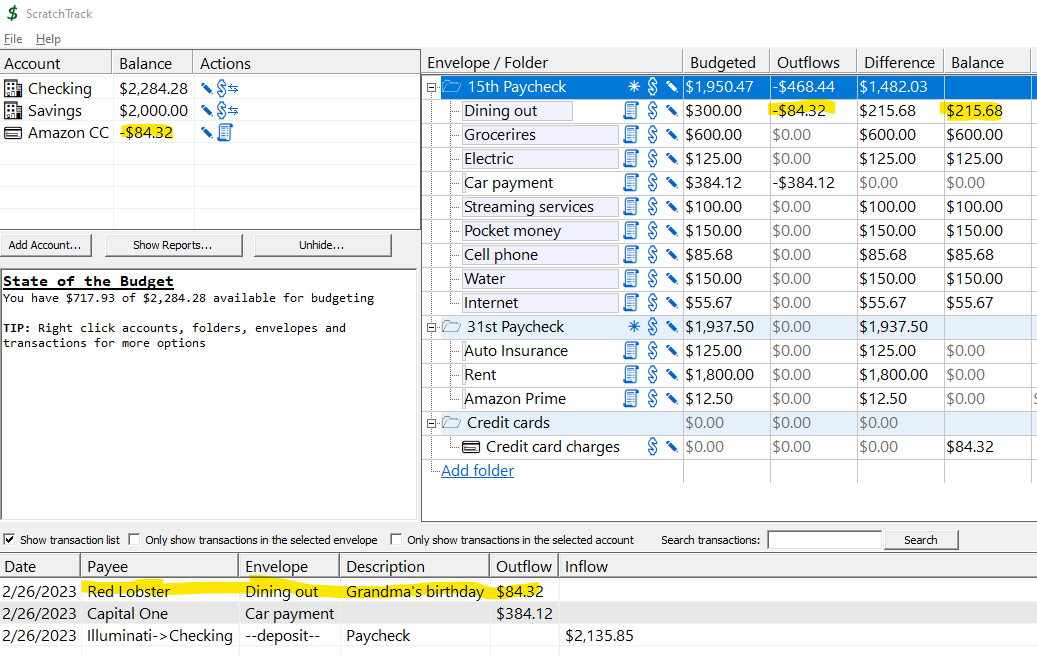
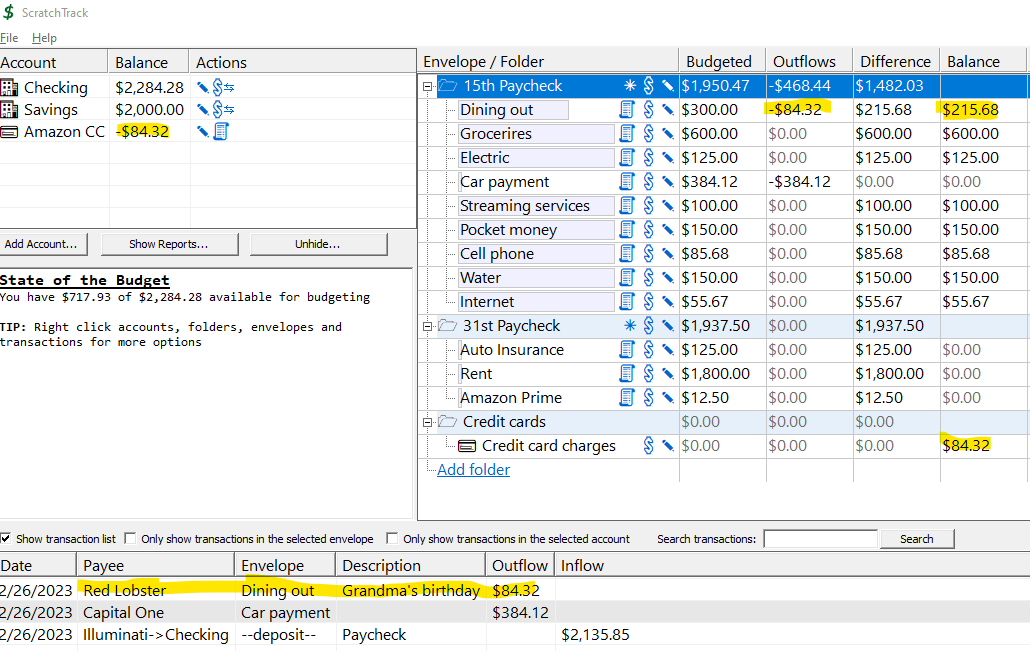
More explicit font handling

diff --git a/Website/index.html b/Website/index.html
@@ -1,8 +1,6 @@
 <!DOCTYPE html PUBLIC "-//W3C//DTD HTML 4.01//EN" "http://www.w3.org/TR/html4/strict.dtd">
 <html><head><title>ScratchTrack - Free budget and cashflow tracking for Windows</title>
 
-
-
   
 
   
@@ -14,8 +12,14 @@ body {
   </style>
   
   <meta http-equiv="Content-Type" content="text/html; charset=UTF-8">
-  <meta name="keywords" content="budget, cashflow, cash, flow, windows, application, free,simple,easy">
+
+  
+  <meta name="keywords" content="budget, cashflow, cash, flow, windows, application, free,simple,easy,freeware,envelope">
+
+  
   <meta name="description" content="ScratchTrack is a free budget and cashflow tracking application for Windows. The mission of ScratchTrack is to be the easiest budgeting appplication available.">
+
+  
   <meta name="robots" content="index, follow"></head><body>
 <table style="text-align: left; width: 1024px;" border="0" cellpadding="6" cellspacing="2">
 
@@ -80,7 +84,9 @@ budgeting but supports credit card workflows<br>
 after all the alternative products moved to a cloud-backed subscription
 model<br>
       <br>
-      <b style="font-weight: bold;">ScratchTrack</b><span style="font-weight: bold;"> is </span><b style="font-weight: bold;">free</b>! ! !<br>
+      <b style="font-weight: bold;">ScratchTrack</b><span style="font-weight: bold;"> is free&nbsp; </span>No Advertisements.
+No nag screens. No locked features. No data collection. Period.
+ScratchTrack is 100% <a href="donate.html">donation supported</a>.<br>
       <br>
       <span style="font-weight: bold;">Download ScratchTrack:</span><br>
       <br>
@@ -114,7 +120,7 @@ is a single file and there is no installer. Just copy it to your local
 machine and run it. If you’d like to add it to your start menu, right
 click it and select “Pin to Start”.</span><br>
       <span style="font-weight: bold;"><br>
-      ProTip:</span> Copy
+ProTip:</span> Copy
 ScratchTrack to your OneDrive / DropBox / GoogleDrive folder and work
 from any of your synced computers.<br>
       <p><b>Scratch Track features</b> </p>
@@ -123,33 +129,35 @@ from any of your synced computers.<br>
         <li>Continuous feedback as you work that alerts you to
 potential problems</li>
         <ul>
-          <li>No need to go to reports! Historical averages are displayed on the budget</li>
-          <li>Sparklines (mini bar charts) visually show how much is left in each category, and how close you are to reaching savings goals<br>
+          <li>No need to go to reports! Historical averages are
+displayed on the budget</li>
+          <li>Sparklines (mini bar charts) visually show how much is
+left in each category, and how close you are to reaching savings goals<br>
           </li>
         </ul>
         <li>ScratchTrack's
 native file format is XLSX<br>
         </li>
-
         <ul>
           <li>Open and view your budget in Excel, Google Sheets,
 LibreOffice Calc, Apache OpenOffice Calc</li>
         </ul>
         <li><span style="font-weight: bold;"></span>Import
 transactions into accounts in the Quicken Interchange Format (QIF)</li>
-        
         <li>Support for credit card workflows</li>
-        
         <li>Requires no special permissions and never sends any
 data over the internet</li>
         <li>Super small, fast, and portable</li>
-        <ul></ul>
-        <li>The author (me!) uses ScratchTrack daily and <span style="font-style: italic;">cares</span>. Found a bug? Need a feature? Visit me on the message board!<br>
+        <ul>
+        </ul>
+        <li>The author (me!) uses ScratchTrack daily and <span style="font-style: italic;">cares</span>. Found a bug? Need a feature?
+Visit me on the message board!<br>
         </li>
-
-      </ul><span style="font-weight: bold;"><img style="width: 1000px; height: 477px;" alt="ScratchTrack" src="assets/ScratchTrackFull.gif"><br>
+      </ul>
+      <span style="font-weight: bold;"><img style="width: 1000px; height: 477px;" alt="ScratchTrack" src="assets/ScratchTrackFull.gif"><br>
       <br>
-      <span style="font-weight: bold;">ScratchTrack's native file format is xlsx<br>
+      <span style="font-weight: bold;">ScratchTrack's native file
+format is xlsx<br>
       </span></span>ScratchTrack saves to a single xlsx file. If you
 want to view your data in a different way, just open it in Excel,
 Google Sheets, Open Office, etcetera. The main sheet is a budget
@@ -159,10 +167,12 @@ overview, and all the pertinent data can be found on secondary sheets.<span styl
 New in 0.5.23.57</span><br>
 Savings Goals!&nbsp; Envelopes can be assigned target balanaces to help
 plan for long term expenses such as down payments and vacations.<br>
-      Sparklines (mini bar charts) in the treeview showing remaining balanace / progress towards savings goals<br>
-      Average monthly spending information is displayed in the tree. Use this
+Sparklines (mini bar charts) in the treeview show remaining balanace
+/ progress towards savings goals<br>
+Average monthly spending information is displayed in the tree. Use this
 to track the accuracy of the budgeted amount set for envelopes.<br>
-      First stab at reporting. These reports won't win any beauty contests (yet). But it's a start!<br>
+First stab at reporting. These reports won't win any beauty contests
+(yet). But it's a start!<br>
       <br>
       <span style="font-weight: bold;">New in 0.5.23.54</span><br>
 Use consistent terminology throughout ScratchTrack. What was

diff --git a/ScratchTrack/ScratchTrack.cpp b/ScratchTrack/ScratchTrack.cpp
@@ -41,10 +41,6 @@
 
 #define MAX_LOADSTRING 100
 
-// Global settings
-static const float FONT_SCALE_FACTOR = 1.4f;
-static const float FONT_SCALE_FACTOR_LOWRES = 1.1f;
-
 // Global Variables:
 HINSTANCE g_hInst = nullptr;                                // current instance
 HWND g_hTopWindow = nullptr;
@@ -1832,12 +1828,22 @@ void setGuiFont(HWND hCtrl)
     bool lowRes = screenWidth < 1920;
 
     // Adjust font
-    float scaleFactor = lowRes ? FONT_SCALE_FACTOR_LOWRES : FONT_SCALE_FACTOR;
-
     HFONT hFont = (HFONT)SendMessage(hCtrl, WM_GETFONT, NULL, NULL);
     LOGFONT lf = { 0 };
     GetObject(hFont, sizeof(lf), &lf);
-    lf.lfHeight = (LONG)(lf.lfHeight * scaleFactor);
+
+    if ( lowRes && abs(lf.lfHeight) < 13 ) {
+        lf.lfHeight = -13;
+    }
+    if (!lowRes && abs(lf.lfHeight) < 16 ) {
+        lf.lfHeight = -16;
+    }
+    //static const float FONT_SCALE_FACTOR = 1.4f;
+    //static const float FONT_SCALE_FACTOR_LOWRES = 1.1f;
+
+    //float scaleFactor = lowRes ? FONT_SCALE_FACTOR_LOWRES : FONT_SCALE_FACTOR;
+
+    //lf.lfHeight = (LONG)(lf.lfHeight * scaleFactor);
     HFONT hNewFont = CreateFontIndirect(&lf);
     SendMessage(hCtrl, WM_SETFONT, (WPARAM)hNewFont, true);
 }

diff --git a/ScratchTrack/Version.h b/ScratchTrack/Version.h
@@ -5,7 +5,7 @@
 #define VER_MAJOR 0
 #define VER_MINOR 5
 #define VER_SUBMINOR 23
-#define VER_BUILD 57
+#define VER_BUILD 58
 
 #define _STR(x) #x
 #define STR(x) _STR(x)
